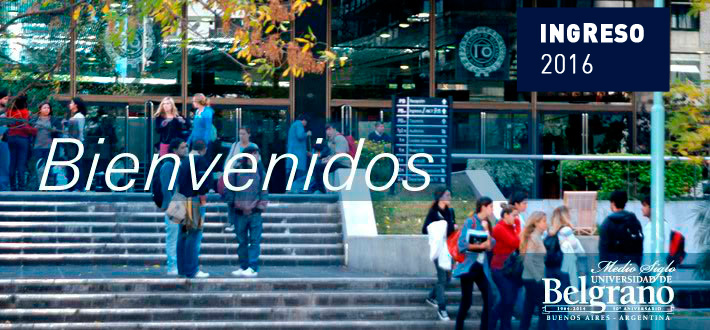
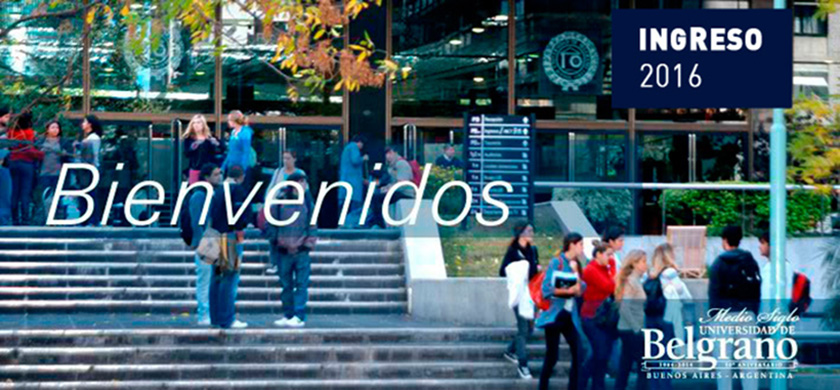
commit 7
commit 7

diff --git a/index.html b/index.html
@@ -20,6 +20,7 @@
     
 <body>
 	
+<div class="row">
 <div id="mainContainerHome" class="container">	
 	
 	
@@ -40,7 +41,7 @@
 			  <li role="presentation"><a href="#">International Programs</a></li>
 			</ul>
 		</nav -->
-	<nav id="botoneraTop" class="navbar navbar-default">
+	<nav id="botoneraTop" class="navbar navbar-default sinMarginBottom">
 	  <div class="container-fluid">
 		<!-- Brand and toggle get grouped for better mobile display -->
 		<div class="navbar-header">
@@ -71,9 +72,9 @@
 
 	
 	
-	
 <div class="row">
-	  <div class="col-md-4">   
+<div class="container padding0" style="background-color:purple;">
+	  <div class="col-md-3" style="background-color:green;">   
 		<ul>
 			<li>Como ingreso a la universidad</li>
 			<li>Jornadas Informativas</li>
@@ -86,13 +87,28 @@
 		</ul>	
 	  
 	  </div>
-	  <div class="col-md-8"><h1><img class="pull-right" class="img-responsive" src="img/Bienvenido_Universidad_de_Belgrano.jpg"/></h1></div>
+	  <div class="col-md-9">
+	 	  <div id="marcoCuadroSuperior" class="col-md-12"><img class="img-responsive center-block" src="img/Bienvenido_Universidad_de_Belgrano.jpg"/></div>
+	  </div>
 </div>	
-	
+</div>		
+
+
+
+
+
+		<div class="row">  
+		<div class="container">	
+		<p> fdkf sdkfskdl fjsdklfj sdklfj dklfjsdklfkdlfj klsdf jkdlfdfkd<br> dfkds fkdl fsdkf dkslf dsklf sdkl</p>
+		
+		</div>			
+		</div>		
+
+
 
 
 </div>			
-	
+</div>		
 
 
 
@@ -102,11 +118,12 @@
         <!--[if lt IE 8]>
             <p class="browserupgrade">You are using an <strong>outdated</strong> browser. Please <a href="http://browsehappy.com/">upgrade your browser</a> to improve your experience.</p>
         <![endif]-->
-  
+<div class="row">  
 <div class="container">	
 	<footer>
 		<p>&copy; Company 2015</p>
 	</footer>
+</div>       
 </div>       
 	
 	

diff --git a/css/main.css b/css/main.css
@@ -11,6 +11,7 @@ body{
 .padding0{padding:0px!important;}
 .margin0{margin:0px!important;}
 .border0{border:0px!important;}
+.sinMarginBottom{margin-bottom:0px!important;}
 
 
 /* ==========================================================================
@@ -47,7 +48,7 @@ box-shadow:none;
 #mainContainerHome{
 	background-color:#fff;
 	padding:0px;
-	max-width:1060px;
+	
 }
 
 .navbar-default {
@@ -93,6 +94,26 @@ background-image: url("../img/degradeBtnMnu-Hover.jpg");
 color:#fff;
 }
 
+
+
+@media screen and (min-width: 768px) {
+	#botoneraTop .navbar-collapse {padding-left: 0px;}
+	#botoneraTop .container-fluid {padding-left: 0px;}
+}
+
+
+/* Cuadro superior presentación*/
+
+#marcoCuadroSuperior{
+	
+	border:solid 10px #fff;
+	padding:0px;
+	-webkit-box-shadow: 7px 7px 5px 0px rgba(50, 50, 50, 0.75);
+	-moz-box-shadow: 7px 7px 5px 0px rgba(50, 50, 50, 0.75);
+	box-shadow: 7px 7px 5px 0px rgba(50, 50, 50, 0.75);
+	margin-top:10px;
+	margin-bottom:10px;
+}
 
 
 
